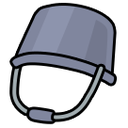
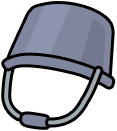
feat(gear): unique art for every equipment item
Replace the shared-sprite placeholders so no two gear items look alike.
Each of the 20 items now has its own PNG under
public/assets/game/equipment/, sourced from the 2D Art Maker atlas:

- helmets: Leather Cap = real brown leather aviator (helmet_11),
  Iron Helm = grey visored knight, Steel Barbute = silver dome,
  Scholar's Spectacles = round wire specs (eyewear).
- body: brown leather chestplate / tan gambeson / olive utility vest /
  grey iron cuirass (top atlas).
- shields: buckler / kite / tower / heraldic ledger (gear_left atlas).
- gloves: leather / padded / thief / ironclad gauntlets (gloves_r atlas).

gear.ts sprites repointed to the per-item files; stale "reuse one sprite"
note removed. All 20 sprites verified loading (HTTP 200, browser).
tsc 0 / 163 tests / build green.

Changed region(s): [[0.0, 0.0, 1.0, 1.0], [0.2821, 0.4062, 0.4615, 0.4688], [0.4872, 0.4375, 0.5128, 0.4688]]

diff --git a/APP/src/data/gear.ts b/APP/src/data/gear.ts
@@ -8,9 +8,9 @@ import type { EquipSlot, InventoryItem } from '../types/schemas';
  * fallback only). Scope = 5 slots: weapon / armor (body) / helmet / shield /
  * gloves — boots & back are intentionally out.
  *
- * Art note: only a few baked PNGs exist per non-weapon slot, so several items in
- * the same slot reuse one sprite (they still differ by name / stats). The shield
- * sprite is a whitelisted copy of the old UI shield (`equipment/tower-shield.png`).
+ * Art note: every item has its own distinct PNG under
+ * `public/assets/game/equipment/` (helmets/tops/eyewear/shields/gloves sourced
+ * from the 2D Art Maker atlas). No two items share a sprite.
  */
 
 export interface GearTemplate {
@@ -51,15 +51,15 @@ export const GEAR_CATALOG: GearTemplate[] = [
     statBonus: { defense: 8 }, weight: 5.0, cost: 100,
     description: 'Supple padding against small overruns.' },
   { templateId: 'padded-gambeson', name: 'Padded Gambeson', slot: 'armor', icon: 'shield',
-    sprite: '/assets/game/equipment/leather-tunic.png', stats: '+5 Defense',
+    sprite: '/assets/game/equipment/padded-gambeson.png', stats: '+5 Defense',
     statBonus: { defense: 5 }, weight: 4.0, cost: 70,
     description: 'Quilted layers that soften every hit.' },
   { templateId: 'travelers-vest', name: "Traveler's Vest", slot: 'armor', icon: 'shield',
-    sprite: '/assets/game/equipment/wanderer-pack.png', stats: '+10 Defense',
+    sprite: '/assets/game/equipment/travelers-vest.png', stats: '+10 Defense',
     statBonus: { defense: 10 }, weight: 6.0, cost: 160,
     description: 'Reinforced canvas built for the long road.' },
   { templateId: 'iron-cuirass', name: 'Iron Cuirass', slot: 'armor', icon: 'shield',
-    sprite: '/assets/game/equipment/leather-tunic.png', stats: '+14 Defense',
+    sprite: '/assets/game/equipment/iron-cuirass.png', stats: '+14 Defense',
     statBonus: { defense: 14 }, weight: 9.0, cost: 300,
     description: 'A solid breastplate for a solid budget.' },
 
@@ -69,25 +69,25 @@ export const GEAR_CATALOG: GearTemplate[] = [
     statBonus: { defense: 6 }, weight: 3.0, cost: 120,
     description: 'Keeps a clear head when the numbers spike.' },
   { templateId: 'leather-cap', name: 'Leather Cap', slot: 'helmet', icon: 'shield',
-    sprite: '/assets/game/equipment/iron-helm.png', stats: '+3 Defense',
+    sprite: '/assets/game/equipment/leather-cap.png', stats: '+3 Defense',
     statBonus: { defense: 3 }, weight: 1.5, cost: 55,
     description: 'Light headgear for cautious scribes.' },
   { templateId: 'scholars-spectacles', name: "Scholar's Spectacles", slot: 'helmet', icon: 'shield',
-    sprite: '/assets/game/equipment/spectacles.png', stats: '+2 Defense',
+    sprite: '/assets/game/equipment/scholars-spectacles.png', stats: '+2 Defense',
     statBonus: { defense: 2 }, weight: 0.5, cost: 80,
     description: 'See the fine print before it bites.' },
   { templateId: 'steel-barbute', name: 'Steel Barbute', slot: 'helmet', icon: 'shield',
-    sprite: '/assets/game/equipment/iron-helm.png', stats: '+9 Defense',
+    sprite: '/assets/game/equipment/steel-barbute.png', stats: '+9 Defense',
     statBonus: { defense: 9 }, weight: 4.0, cost: 220,
     description: 'Full-face steel for the fiscally fearless.' },
 
   // ── Shields (defense) ─────────────────────────────────────────────
   { templateId: 'buckler', name: 'Buckler', slot: 'shield', icon: 'shield',
-    sprite: '/assets/game/equipment/tower-shield.png', stats: '+4 Defense',
+    sprite: '/assets/game/equipment/buckler.png', stats: '+4 Defense',
     statBonus: { defense: 4 }, weight: 2.0, cost: 60,
     description: 'A small guard for quick deflections.' },
   { templateId: 'kite-shield', name: 'Kite Shield', slot: 'shield', icon: 'shield',
-    sprite: '/assets/game/equipment/tower-shield.png', stats: '+8 Defense',
+    sprite: '/assets/game/equipment/kite-shield.png', stats: '+8 Defense',
     statBonus: { defense: 8 }, weight: 5.0, cost: 140,
     description: 'Balanced cover from crown to shin.' },
   { templateId: 'tower-shield', name: 'Tower Shield', slot: 'shield', icon: 'shield',
@@ -95,7 +95,7 @@ export const GEAR_CATALOG: GearTemplate[] = [
     statBonus: { defense: 12 }, weight: 8.0, cost: 280,
     description: 'A wall of wood and iron against ruin.' },
   { templateId: 'ledger-shield', name: 'Ledger Shield', slot: 'shield', icon: 'shield',
-    sprite: '/assets/game/equipment/tower-shield.png', stats: '+10 Defense',
+    sprite: '/assets/game/equipment/ledger-shield.png', stats: '+10 Defense',
     statBonus: { defense: 10 }, weight: 6.0, cost: 200,
     description: 'Protects against sudden market crashes.' },
 
@@ -105,15 +105,15 @@ export const GEAR_CATALOG: GearTemplate[] = [
     statBonus: { defense: 2 }, weight: 0.8, cost: 45,
     description: 'A steady grip on the coin purse.' },
   { templateId: 'padded-mitts', name: 'Padded Mitts', slot: 'gloves', icon: 'shield',
-    sprite: '/assets/game/equipment/leather-gloves.png', stats: '+3 Defense',
+    sprite: '/assets/game/equipment/padded-mitts.png', stats: '+3 Defense',
     statBonus: { defense: 3 }, weight: 1.0, cost: 65,
     description: 'Thick mitts that blunt careless spending.' },
   { templateId: 'thiefs-gloves', name: "Thief's Gloves", slot: 'gloves', icon: 'shield',
-    sprite: '/assets/game/equipment/leather-gloves.png', stats: '+4 Defense',
+    sprite: '/assets/game/equipment/thiefs-gloves.png', stats: '+4 Defense',
     statBonus: { defense: 4 }, weight: 0.6, cost: 110,
     description: 'Nimble fingers that never miss a discount.' },
   { templateId: 'ironclad-gauntlets', name: 'Ironclad Gauntlets', slot: 'gloves', icon: 'shield',
-    sprite: '/assets/game/equipment/leather-gloves.png', stats: '+5 Defense',
+    sprite: '/assets/game/equipment/ironclad-gauntlets.png', stats: '+5 Defense',
     statBonus: { defense: 5 }, weight: 2.5, cost: 170,
     description: 'Plated fists for an iron-clad ledger.' },
 ];

diff --git a/PLANS/DemoPolishPlan.md b/PLANS/DemoPolishPlan.md
@@ -352,8 +352,14 @@ enemy-turn defense = SUM `statBonus.defense` over ALL equipped Equipment on targ
 party-card defense badge shows summed number + piece count. War Room: 5 slotBoxes. Grand Vault:
 equip path already generic over `plan.slot` — no change. Content: seed = 20 gear (4/slot) +
 3 potions; shop = full catalogue + potion; `handleShopPurchase` + quest-reward builder now carry
-`slot`. Art: `equipment/tower-shield.png` = whitelisted copy of `ui/Icon_Shield.png` (4 shields
-reuse it); body/helmet/gloves reuse their one baked PNG across the 4 variants. VERIFIED (browser,
+`slot`. Art: initially reused one PNG per slot; FOLLOW-UP (2026-07-10) gave every item its OWN distinct
+PNG under `public/assets/game/equipment/` sourced from the 2D Art Maker atlas
+(`Assets/imported_assets/images/{helmet,top,eyewear,gearhand,gloves_r}`): Leather Cap = real brown
+leather aviator (helmet_11), Iron Helm = grey visored knight (helmet_13), Steel Barbute = silver
+dome (helmet_20), Scholar's Spectacles = round specs (eyewear_14); body = brown chestplate/tan
+gambeson/olive vest/grey cuirass (top_19/26/25/54); shields = buckler/kite/tower/ledger
+(gear_left_6/4/5/10); gloves = leather/padded/thief/ironclad (gloves_r_9/2/3/16). All 20 sprites
+load 200, none shared (verified browser). VERIFIED (browser,
 preview_eval): fresh seed = 4/slot, no missing slot, no sprite 404 (incl shield); equipped 1 of
 each slot to Althea → `equipment` has all 5 keys + 5 items `equippedTo=p1` (defense sum 20);
 per-slot swap (2nd helmet displaces 1st, count stays 5); War Room modal fits viewport (page's
